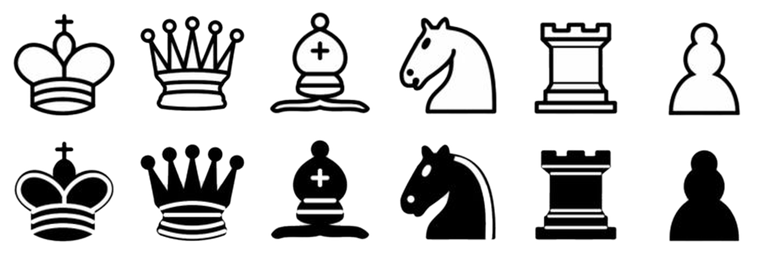
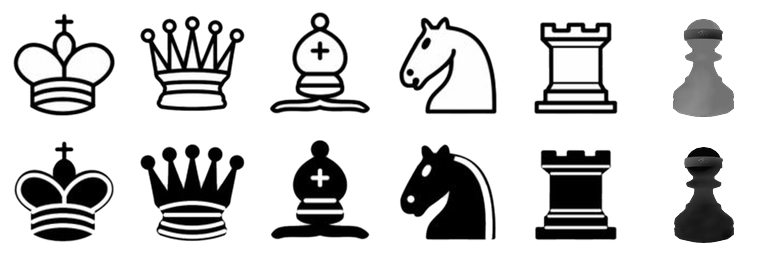
Chess: new pawn pictures
Pawns cut out of the new renders (background removed) and put into the
piece sheet; uploaded as rbxassetid://138567758869557 (PieceArt SheetImage).

Claude-Session: https://claude.ai/code/session_016yns2uRqGV1kRTf7vVLDrH

Changed region(s): [[0.8438, 0.5625, 0.9688, 0.9688], [0.8438, 0.0625, 0.9688, 0.4688]]

diff --git a/assets/pieces/cut_piece.py b/assets/pieces/cut_piece.py
@@ -1,0 +1,58 @@
+import sys
+from PIL import Image
+import numpy as np
+from collections import deque
+
+def cutout(path):
+    a = np.array(Image.open(path).convert('RGB')).astype(int)
+    h, w, _ = a.shape
+    bg = np.array([63.5, 63.5, 63.5])
+    d = np.abs(a - bg).max(2)
+    # flood fill the background from the border (tolerance 6)
+    isbg = np.zeros((h, w), bool)
+    q = deque()
+    for x in range(w):
+        q.append((0, x)); q.append((h - 1, x))
+    for y in range(h):
+        q.append((y, 0)); q.append((y, w - 1))
+    while q:
+        y, x = q.popleft()
+        if y < 0 or y >= h or x < 0 or x >= w or isbg[y, x] or d[y, x] > 6:
+            continue
+        isbg[y, x] = True
+        q.extend(((y + 1, x), (y - 1, x), (y, x + 1), (y, x - 1)))
+    # seal small gaps in the outline (the head shows through under the
+    # headband in the same grey as the background), then only keep as
+    # background what is still connected to the image border
+    from scipy import ndimage
+    solid = ndimage.binary_closing(~isbg, structure=np.ones((3, 3)), iterations=6)
+    solid = ndimage.binary_fill_holes(solid)
+    isbg = isbg & ~solid
+    alpha = np.where(isbg, 0, 255).astype(np.uint8)
+    # soften the rim a little: pixels next to the background fade by how close they are to it
+    rim = (~isbg) & (np.roll(isbg, 1, 0) | np.roll(isbg, -1, 0) | np.roll(isbg, 1, 1) | np.roll(isbg, -1, 1))
+    alpha[rim] = np.clip(d[rim] * 255 / 24, 90, 255).astype(np.uint8)
+    rgba = np.dstack([a.astype(np.uint8), alpha])
+    img = Image.fromarray(rgba, 'RGBA')
+    return img.crop(img.getbbox())
+
+def cell_bbox(sheet, col, row):
+    c = sheet.crop((col * 128, row * 128, col * 128 + 128, row * 128 + 128))
+    return c.getbbox()
+
+sheet = Image.open('/home/claude/roblox-game/assets/chess-pieces.png').convert('RGBA')
+for row, path, name in ((0, sys.argv[1], 'white'), (1, sys.argv[2], 'black')):
+    pawn = cutout(path)
+    pawn.save(f'/tmp/pawn/pawn_{name}_full.png')
+    old = cell_bbox(sheet, 5, row)
+    print(name, 'cutout', pawn.size, 'old pawn bbox in cell', old)
+    # same height as the old pawn, standing on the same baseline, centred
+    target_h = old[3] - old[1]
+    scale = target_h / pawn.size[1]
+    nw, nh = max(1, round(pawn.size[0] * scale)), target_h
+    small = pawn.resize((nw, nh), Image.LANCZOS)
+    cell = Image.new('RGBA', (128, 128), (0, 0, 0, 0))
+    cell.paste(small, ((128 - nw) // 2, old[3] - nh), small)
+    sheet.paste(Image.new('RGBA', (128, 128), (0, 0, 0, 0)), (5 * 128, row * 128))
+    sheet.paste(cell, (5 * 128, row * 128))
+sheet.save('/tmp/pawn/chess-pieces.png')
